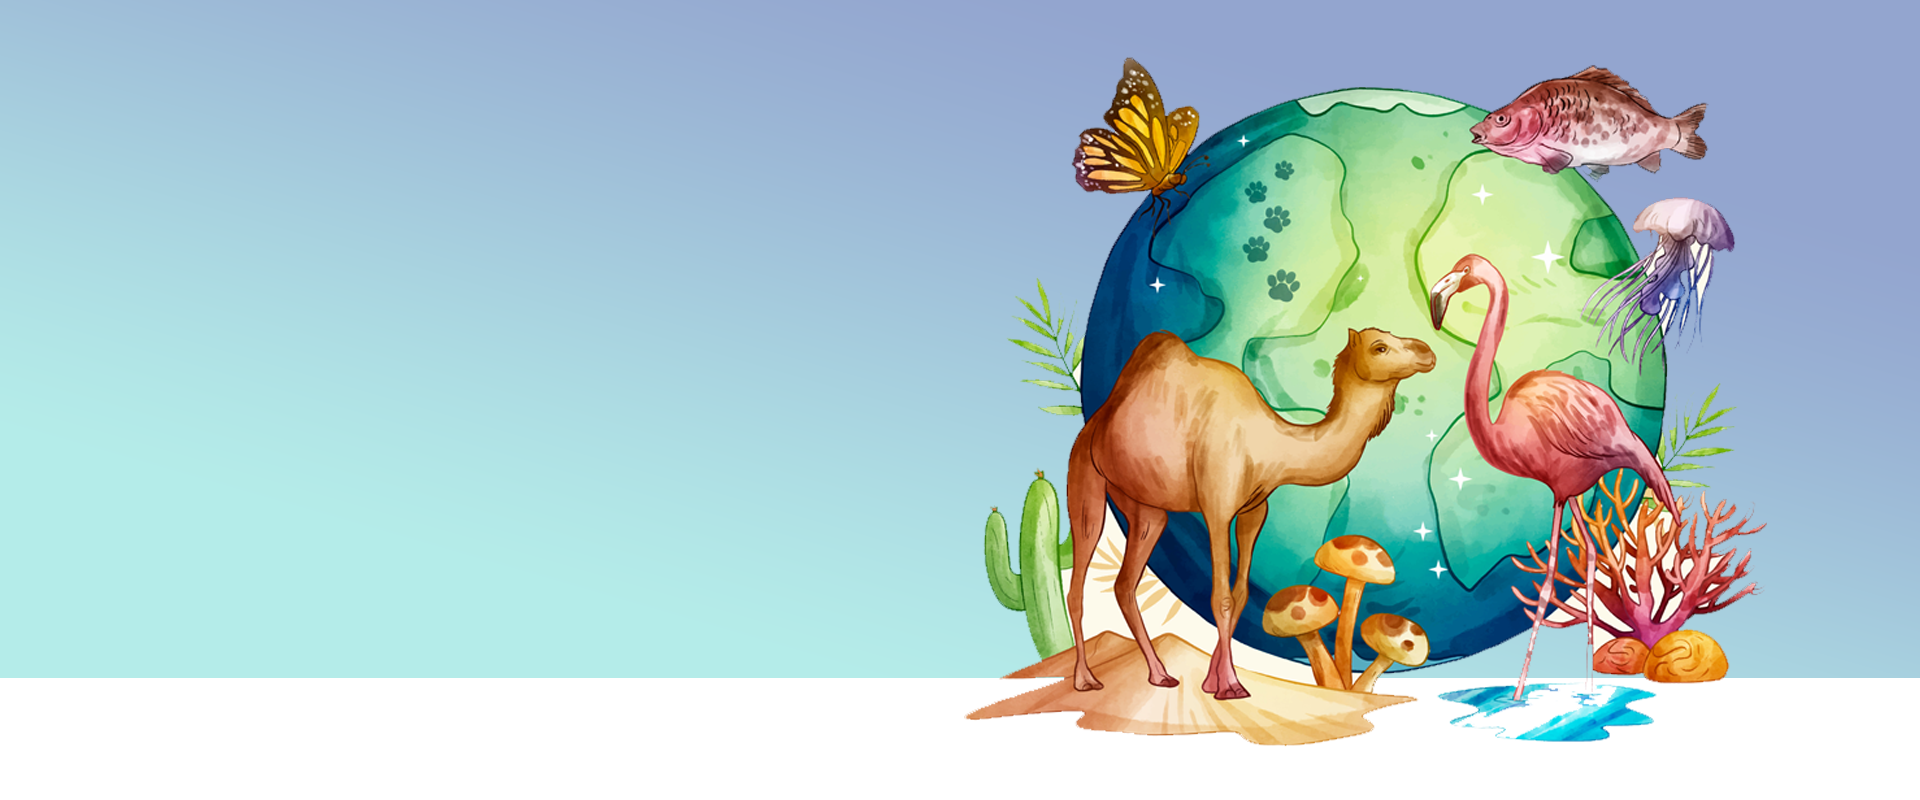
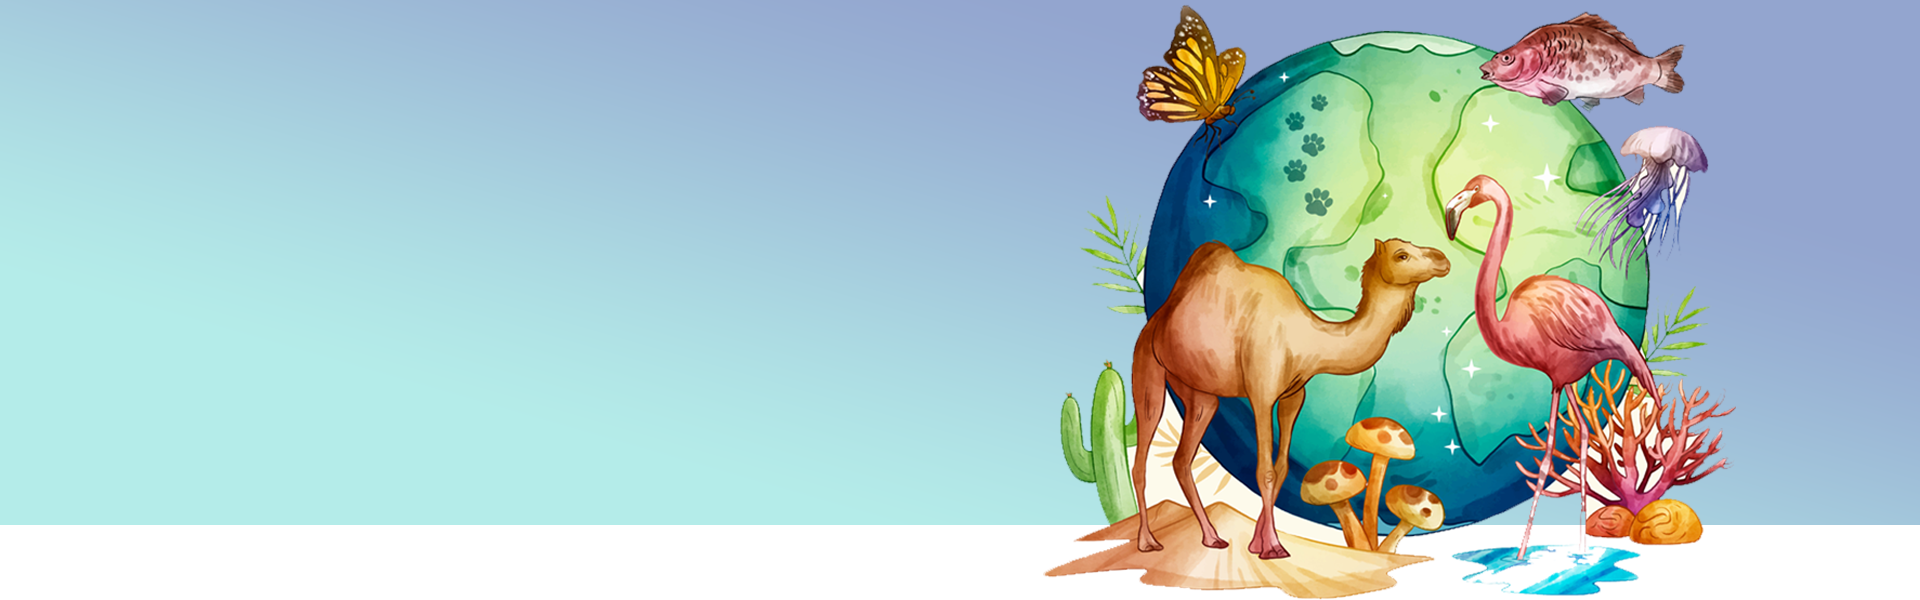
updated explore section styling

Changed region(s): [[0.0, 0.0, 1.0, 1.0]]

diff --git a/src/components/Explore.js b/src/components/Explore.js
@@ -7,16 +7,25 @@ const Explore = () => {
     const [error, setError] = useState('');
 
     const handleSearch = async() => {
-        if(!animalName) return;
-        setError('');
+        if(!animalName) return; // if empty input, do nothing
+        setError('');  // Clear any existing errors
         try{
             const response = await axios.get(`https://api.api-ninjas.com/v1/animals?name=${animalName}`, {
                 headers: { 'X-Api-Key': 'FTh8qQUY5WOUHWhyXIZVMQ==XHnsJ3BxFKRqxqPf'}
             });
-            setAnimalDetails(response.data[0]);
+
+            // Check if response data is empty
+            if(response.data.length === 0){
+                setError('No animal found. Please try another name.')
+                setAnimalDetails(null);
+            }
+            else {
+                setAnimalDetails(response.data[0]); // Set the first animal details
+            }
+            
         }
         catch (err) {
-            setError('Animal not found');
+            setError('An error occurred while searching for the animal.');
             setAnimalDetails(null);
         }
     };
@@ -33,35 +42,51 @@ const Explore = () => {
             <div className="container mt-5">
                 <div className="row justify-content-center">
                     <h1 className="mt-4 mb-4">Explore Animals</h1>
-                    <div className="col-md-6">
-                        <div className="input-group mt-3 mb-3">
-                            <input
-                                type="text"
-                                className="form-control"
-                                value={animalName}
-                                onChange={(e) => {
-                                    console.log(e.target.value); // Check the input value
-                                    setAnimalName(e.target.value);
-                                }}
-                                onKeyPress={handleKeyPress}
-                                placeholder="Search for an animal..."/>
-                            <button className="btn btn-primary" onClick={handleSearch}>Search</button>
-                        </div>
-                        {error && <div className="alert alert-danger">{error}</div>}
-                        {animalDetails && (
-                            <div className="card mt-4">
-                                <div className="card-body">
-                                    <h5 className="card-title">Name : {animalDetails.name}</h5>
-                                    <p className="card-text"><strong>Location :</strong> {animalDetails.locations.join(', ')}</p>
-                                    <p className="card-text"><strong>Characteristics</strong></p>
-                                    <p className="card-text"><strong>Pray:</strong> {animalDetails.characteristics.prey}</p>
-                                    <p className="card-text"><strong>Population:</strong> {animalDetails.characteristics.estimated_population_size}</p>
-                                    <p className="card-text"><strong>Group:</strong> {animalDetails.characteristics.group}</p>
-                                    <p className="card-text"><strong>Weight:</strong> {animalDetails.characteristics.weight}</p>
+                    <div className="input-group search m-5">
+                        <input
+                            type="text"
+                            className="form-control"
+                            value={animalName}
+                            onChange={(e) => {
+                                console.log(e.target.value); // Check the input value
+                                setAnimalName(e.target.value);
+                            }}
+                            onKeyPress={handleKeyPress}
+                            placeholder="Search for an animal..."/>
+                        <button className="btn" onClick={handleSearch}>Search</button>
+                    </div>
+                    {error && <div className="alert alert-danger">{error}</div>}
+                    {animalDetails && (
+                    <div className="container">
+                        <h2>{animalDetails.name}</h2>
+                        <h4 className="location pt-4">Location : {animalDetails.locations.join(', ') }</h4>
+                        <div className="row">
+                            <div class="col-sm-6">
+                                <div className="card mt-4">
+                                    <div className="card-body">
+                                        <p className="card-title"><strong>Taxonomy</strong></p>
+                                        <p className="card-text"><span className="sub-title">Kingdom: </span>{animalDetails.taxonomy.kingdom || "Data not available"}</p>
+                                        <p className="card-text"><span className="sub-title">Class: </span>{animalDetails.taxonomy.class || "Data not available"}</p>
+                                        <p className="card-text"><span className="sub-title">Family: </span>{animalDetails.taxonomy.family || "Data not available"}</p>
+                                        <p className="card-text"><span className="sub-title">Scientific Name: </span>{animalDetails.taxonomy.scientific_name || "Data not available"}</p>
+                                    </div>
                                 </div>
                             </div>
-                        )}
+                            <div class="col-sm-6">
+                                <div className="card mt-4">
+                                    <div className="card-body">
+                                        <p className="card-title"><strong>Characteristics</strong></p>
+                                        <p className="card-text"><span className="sub-title">Pray :</span> {animalDetails.characteristics.prey || "Data not available"}</p>
+                                        <p className="card-text"><span className="sub-title">Population : </span> {animalDetails.characteristics.estimated_population_size || "Data not available"}</p>
+                                        <p className="card-text"><span className="sub-title">Group : </span> {animalDetails.characteristics.group || "Data not available"}</p>
+                                        <p className="card-text"><span className="sub-title">Weight: </span> {animalDetails.characteristics.weight || "Data not available"}</p>
+                                    </div>
+                                </div>
+                            </div>
+                        </div>
+                        
                     </div>
+                    )}
                 </div>
             </div>
         </section>

diff --git a/src/assets/styles/styles.css b/src/assets/styles/styles.css
@@ -15,22 +15,33 @@ h2 {
 
 nav{
     padding: 0 100px !important;
+    box-shadow: 0 4px 10px rgba(0, 0, 0, 0.2);
 }
 
 .navbar img{
     width: 20%;
 }
 
+.navbar ul .nav-link{
+    font-size: 18px;
+    font-weight: 600;
+    color: #066f11 !important;
+    margin-right: 14px;
+}
+
+.navbar ul .nav-link:hover {
+    color: #00376e !important; 
+}
+
 .home-banner {
     background-image: url('../images/Banner.png');
     background-size: cover;
     background-position: center;
-    height: 100vh;
+    height: 470px;
     display: flex;
     align-items: center;
-    position: relative;
     color: white;
-    top: 8vh;
+    margin-top: 60px;
 }
 
 .banner-text{
@@ -51,6 +62,10 @@ nav{
     font-weight: 600;
 }
 
+.home-banner .banner-text .name{
+    color: #054e0c !important;
+}
+
 .container {
     margin: 0 90px;
 }
@@ -66,6 +81,68 @@ nav{
 
 .explore{
     text-align: center;
+}
+
+.explore .search {
+    width: 50% !important;
+    margin: 0 50px 0 50px;
+}
+
+.explore .btn {
+    color: #fff !important;
+    background-color: #054e0c;
+    border: none;
+    border-radius: 5px;
+    padding: 10px 20px; 
+    font-size: 16px; 
+    transition: background-color 0.3s ease, color 0.3s ease, border 0.3s ease; /* Smooth transition */
+    box-shadow: 0 4px 10px rgba(0, 0, 0, 0.2); /* Soft shadow effect */
+}
+
+.explore .btn:hover {
+    color: #054e0c !important; /* Text color on hover */
+    background-color: #fff; /* Background color on hover */
+    border: 2px solid #054e0c; 
+    box-shadow: 0 6px 15px rgba(0, 0, 0, 0.3); /* shadow effect */
+    transform: translateY(-2px); /* Slight lift effect */
+}
+
+.explore h2 {
+    font-weight: 700 !important;
+    font-size: 30px !important;
+    text-transform: uppercase;
+}
+
+.explore .location {
+    font-size: 20px;
+    color: #054e0c !important;
+    font-weight: 600;
+}
+
+.explore .card {
+    padding: 20px;
+    margin: 30px;
+}
+
+.explore .card .card-body {
+    text-align: left;
+}
+
+.explore .card .card-body .card-title {
+    font-size: 20px;
+    text-transform: uppercase;
+    color: #054e0c !important
+}
+
+.explore .card .card-body .card-text {
+    font-size: 16px;
+    text-transform: capitalize;
+    padding-left: 30px;
+}
+
+.explore .card .card-body .sub-title {
+    color: #054e0c !important;
+    font-weight: 600;
 }
 
 footer{

diff --git a/src/components/Home.js b/src/components/Home.js
@@ -6,7 +6,7 @@ const Home = () => {
             <div className="container">
                 <div className='row'>
                     <div className='banner-text col-lg-6'>
-                        <h1>Welcome to Fauna Finder</h1>
+                        <h1>Welcome to <span className='name'>Fauna Finder</span></h1>
                         <p>Discover the diverse wildlife around you!</p>
                     </div>
                 </div>
